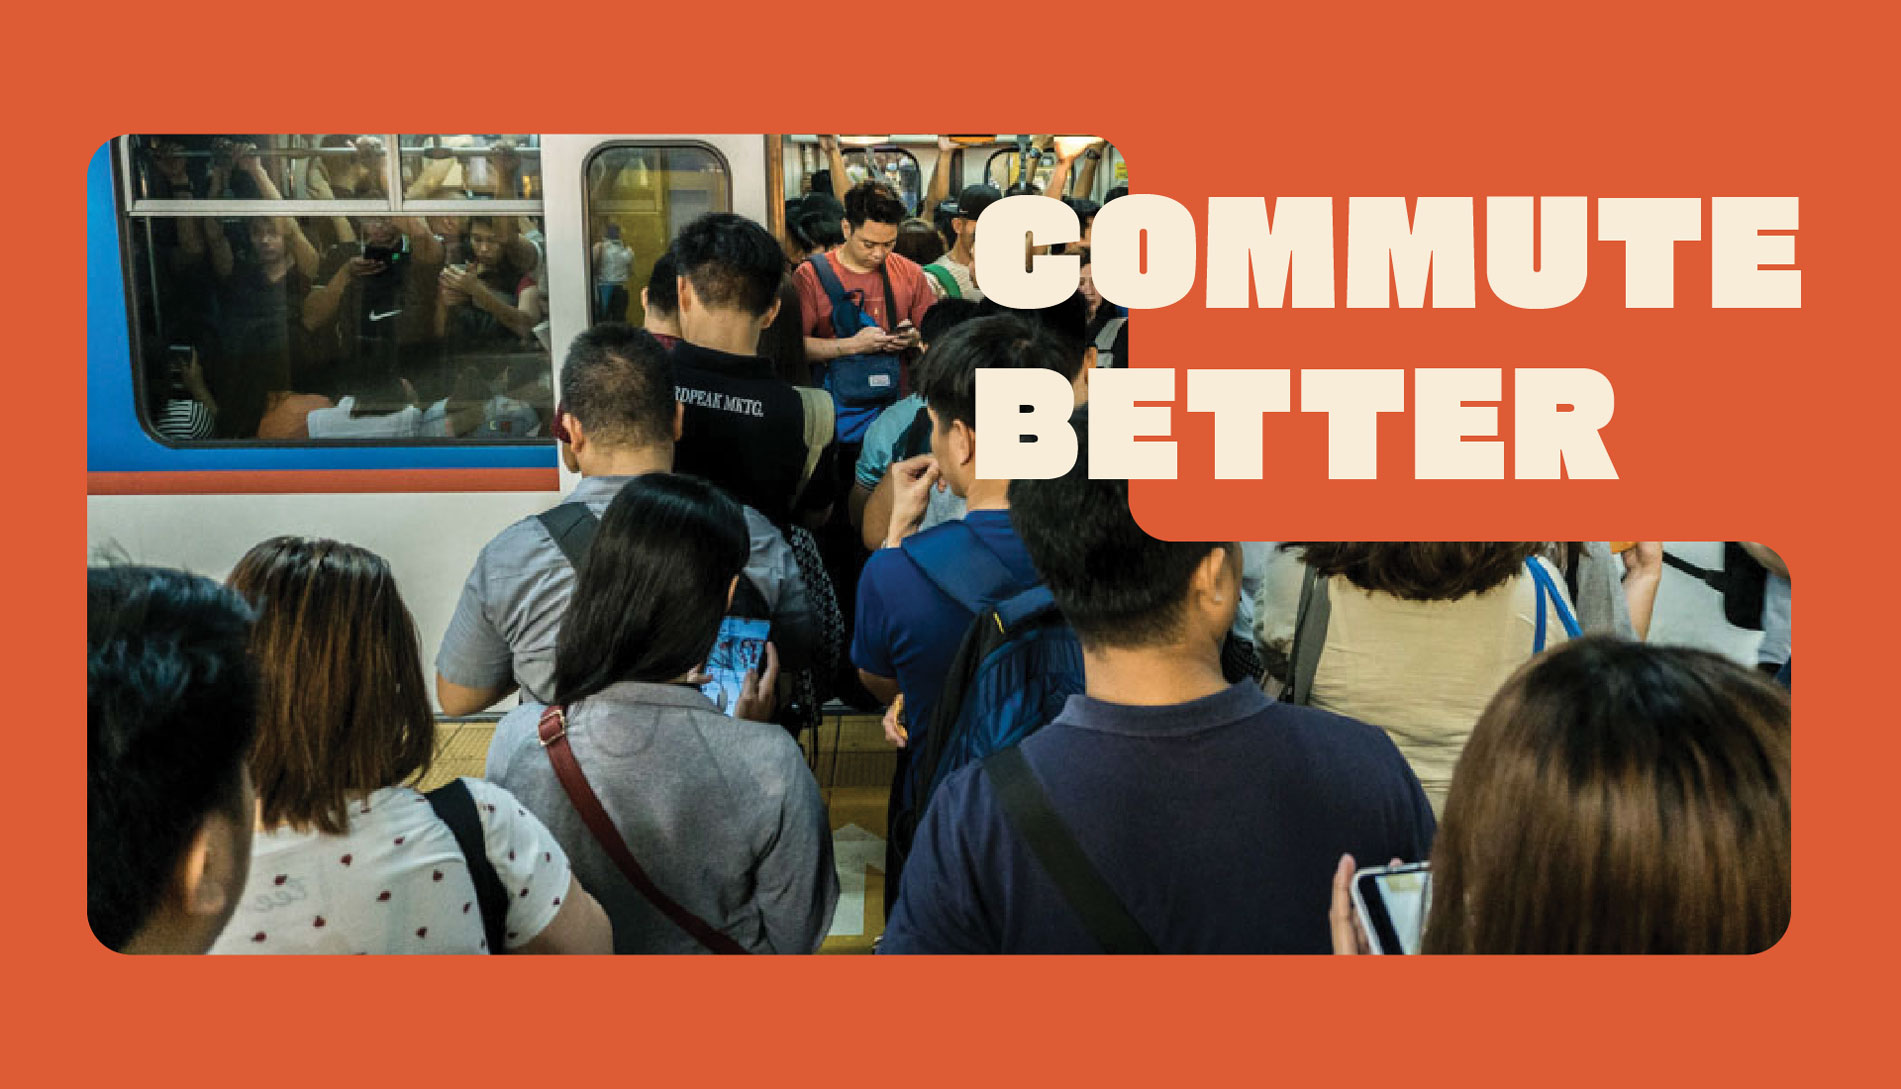
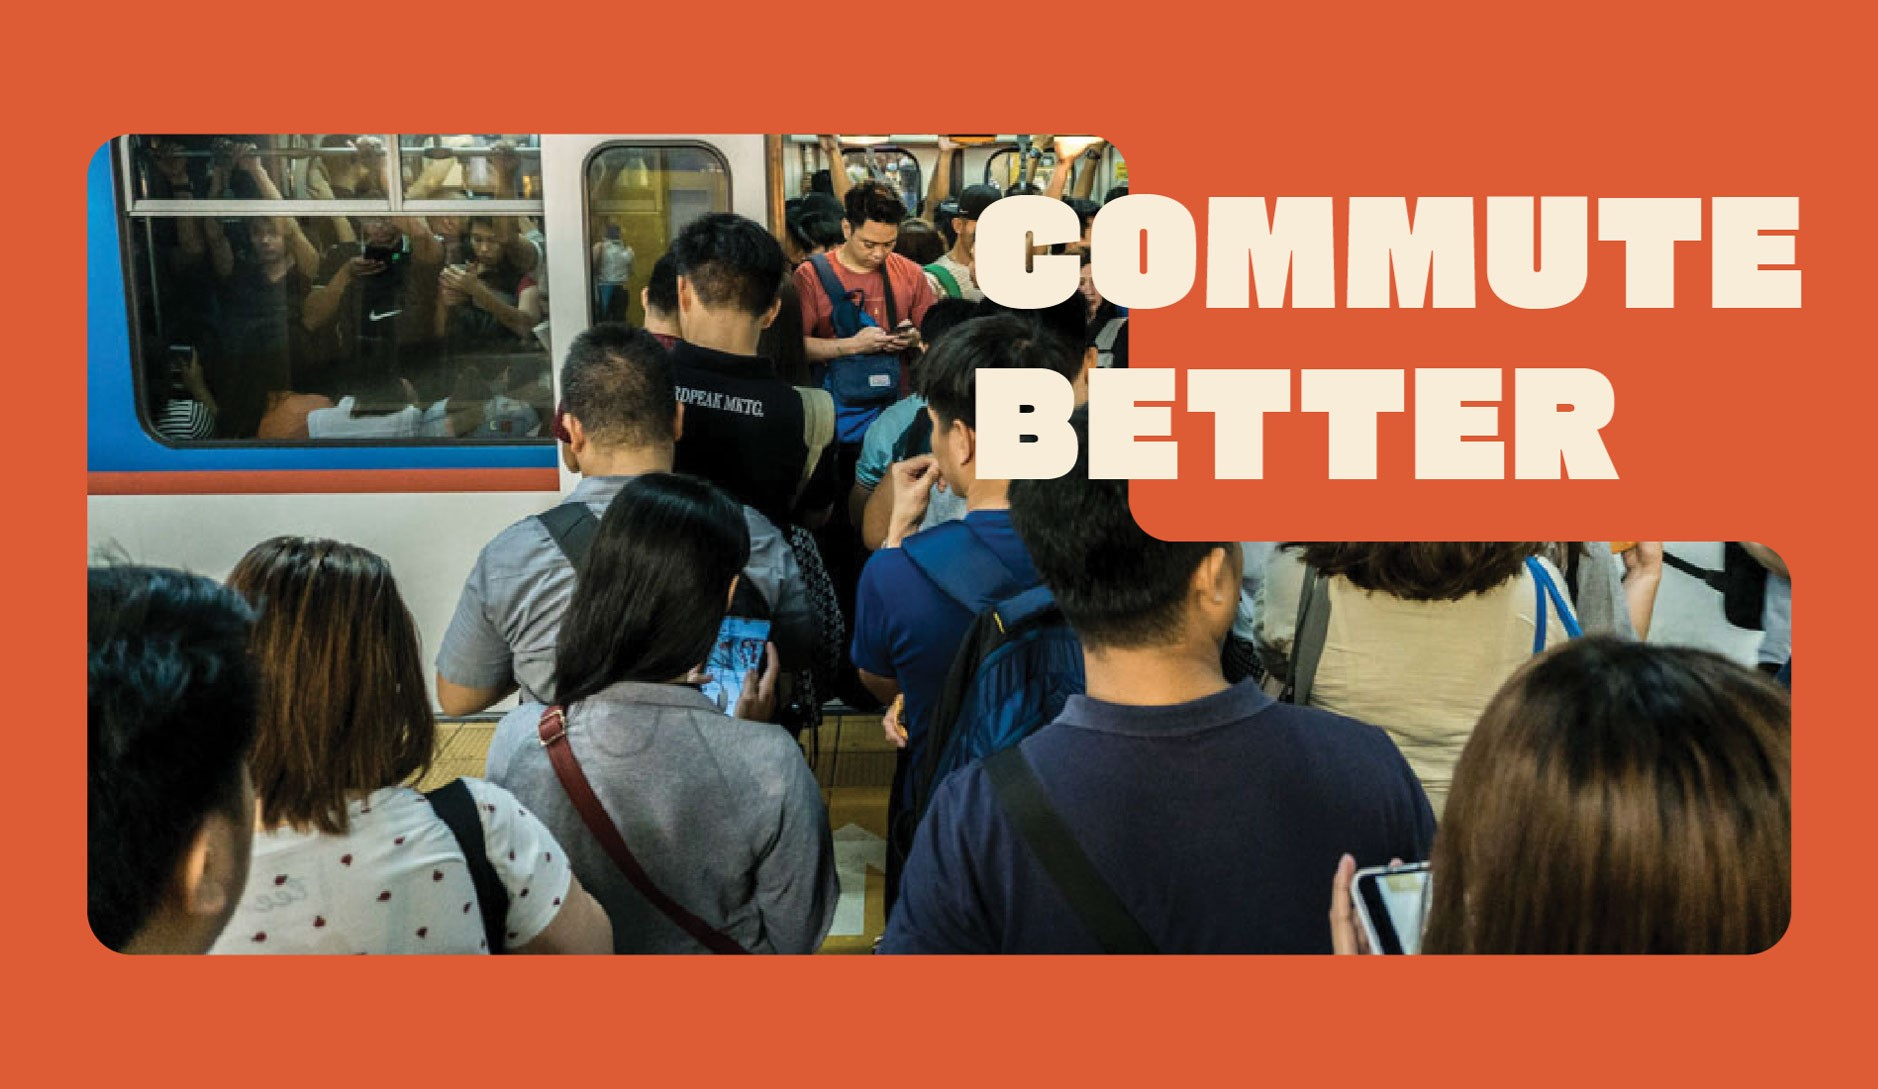
homepage complete

diff --git a/css/index.css b/css/index.css
@@ -1,0 +1,244 @@
+/* Reset and General Styles */
+body {
+  margin: 0;
+  padding: 0;
+  box-sizing: border-box;
+  font-family: Gabarito, Gasoek One, Quicksand;
+  background-color: #f8edd9;
+}
+
+/* Section - Common Styles */
+.section {
+  display: flex;
+  align-items: flex-end;
+  justify-content: space-between;
+  background-color: #d94f30;
+  position: relative;
+  width: 100%;
+}
+
+/* Header Section */
+.content {
+  box-sizing: border-box;
+  padding: 9.5% 7%;
+  position: absolute;
+  display: flex;
+  flex-direction: row;
+  justify-content: space-between;
+  align-items: center;
+  width: 100%;
+  margin: 0 auto;
+  z-index: 1;
+}
+
+.title {
+  font-size: 24px;
+  font-weight: bold;
+}
+
+.description {
+  background-color: #f8edd9;
+  border: 1px solid black;
+  padding: 5px;
+  border-radius: 6px;
+  color: black;
+  width: 70%;
+}
+
+.description p {
+  margin: 0;
+  width: 100%;
+  font-size: 0.5rem;
+}
+
+.button {
+  background-color: #f2c94c;
+  border: 1px solid black;
+  border-radius: 6px;
+  padding: 5px;
+  font-weight: bold;
+  font-size: 8px;
+  color: #de5b35;
+}
+
+.button p {
+  margin: 0;
+  width: 3rem;
+}
+
+.section img {
+  width: 100%;
+  height: 100%;
+  object-fit: cover;
+}
+
+/* Home Section */
+.section-home {
+  padding: 2rem;
+}
+
+/* About Section */
+.about-section {
+  padding-bottom: 3rem;
+}
+
+h2 {
+  color: #d94f30;
+  font-size: 1.5rem;
+  margin-bottom: 1rem;
+  font-weight: bold;
+  font-family: "Gabarito";
+}
+
+.about-section p {
+  color: #de5b35;
+  font-size: 16px;
+  line-height: 1.6;
+  margin-bottom: 0.5rem;
+}
+
+a {
+  color: #d94f30;
+  text-decoration: underline;
+  font-size: 16px;
+  font-weight: 600;
+  font-family: "Quicksand";
+}
+
+.video-section video {
+  width: 100%;
+  border-radius: 30px;
+  margin-bottom: 1rem;
+}
+
+.about-contents-section {
+  text-align: left;
+}
+
+/* News Section */
+.news-section .news-item {
+  margin-bottom: 20px;
+}
+
+.news-section img {
+  width: 100%;
+  border-radius: 20px;
+}
+
+.news-section a {
+  display: block;
+  text-align: center;
+  color: #d94f30;
+  margin-top: 5px;
+  font-family: "Quicksand";
+}
+
+@media (min-width: 768px) {
+  .section-home {
+    margin: 3rem;
+  }
+
+  
+
+  .content {
+    flex-direction: row;
+    align-items: center;
+  }
+
+  .title {
+    font-size: 36px; /* Increased font size for title */
+  }
+
+  .description {
+    padding: 0.5rem 0.5rem; /* Increased padding */
+    border-radius: 10px;
+    font-size: 24px; /* Increased font size */
+    margin-top: auto;
+    width: 60%;
+    height: 100%;
+  }
+
+  .description p {
+    width: 100%;
+    padding: 0.5rem 0.3rem; /* Increased padding */
+    font-size: 1.2rem;
+    height: 100%;
+  }
+
+  .button {
+    padding: 0.5rem 0.5rem; /* Increased padding */
+    border-radius: 10px;
+    font-size: 24px; /* Increased font size */
+    margin-top: auto;
+    height: 100%;
+  }
+
+  .button p {
+    padding: 0.5rem 0rem; /* Increased padding */
+    width: 8rem; /* Adjusted width */
+    font-size: 1.2rem;
+  }
+
+  /* About Section Styling for Desktop */
+  .about-section {
+    display: flex; /* Flexbox for side-by-side layout */
+    align-items: flex-start; /* Align items to the top */
+    padding-bottom: 3rem;
+    justify-content: center;
+  }
+
+  .video-section {
+    flex: 1; /* Take up 1 part of the available space */
+    padding-right: 2rem; /* Add some spacing */
+    display: flex;
+    justify-content: center;
+    align-items: center; 
+  }
+
+  .video-section video {
+    flex: 1; /* Make the video expand to fill available space */
+    width: 100%; /* Ensure it fills the width */
+    height: 100%; /* Ensure it fills the height */
+    object-fit: contain;
+  }
+
+  .about-contents-section {
+    flex: 1; /* Take up 1 part of the available space */
+  }
+
+  h2 {
+    font-size: 3rem; /* Adjusted font size for desktop */
+    margin: 0;
+  }
+
+  
+
+  .about-section p {
+    font-size: 18px; /* Adjusted font size for desktop */
+    text-align: justify;
+  }
+
+  .about-section a {
+    font-size: 18px; /* Adjusted font size for desktop */
+  }
+  .news-section-articles {
+    display: flex; /* Use flexbox for horizontal layout */
+    justify-content: space-between; /* Space items evenly */
+    margin: 1rem 0;
+  }
+
+  .news-section .news-item {
+    width: 48%; /* Adjust width for spacing between items */
+    margin-bottom: 0; /* Remove bottom margin */
+  }
+
+  .news-section img {
+    height: 250px; /* Set a fixed height for images */
+    object-fit: cover; /* Maintain aspect ratio and cover container */
+  }
+
+  .news-section a {
+    font-size: 18px; /* Increase font size */
+    margin-top: 10px; /* Add more space between image and text */
+  }
+}

diff --git a/footer and nav template.html b/footer and nav template.html
@@ -5,16 +5,13 @@
     <meta name="viewport" content="width=device-width, initial-scale=1.0" />
     <title>Document</title>
 
-    <link rel="preconnect" href="https://fonts.googleapis.com" />
-    <link rel="preconnect" href="https://fonts.gstatic.com" crossorigin />
     <link
-      href="https://fonts.googleapis.com/css2?family=Gabarito:wght@400..900&family=Gasoek+One&family=Quicksand:wght@300..700&display=swap"
       rel="stylesheet"
+      href="https://fonts.googleapis.com/css2?family=Poppins:wght@400;600;700&display=swap"
     />
-
     <link rel="stylesheet" href="css/footer.css" />
     <link rel="stylesheet" href="css/navbar.css" />
-    <link rel="stylesheet" href="css/index.css" />
+    <link rel="stylesheet" href="css/about.css" />
   </head>
   <body>
     <header>
@@ -38,56 +35,8 @@
       </nav>
     </header>
 
-    <main>
-      <body>
-        <div class="section">
-          <img src="asset/home/header.jpg" alt="Commuters in a crowded train" />
-          <div class="content">
-            <div class="description">
-              <p>
-                Advocating for safer, more efficient, and accessible public
-                transit in the Philippines.
-              </p>
-            </div>
-            <button class="button">
-              <p>TAKE ACTION</p>
-            </button>
-          </div>
-        </div>
 
-        <div class="section-home">
-          <div class="about-section">
-            <div class="video-section">
-              <video src="asset/home/about-video.mp4" controls></video>
-            </div>
-            <div class="about-contents-section">
-              <h2>About</h2>
-              <p>
-                SakayBayan advocates for better public transit in the
-                Philippines by informing commuters, highlighting solutions, and
-                empowering action to push for a safer, more efficient, and
-                accessible system.
-              </p>
-              <a href="#">More About Us ></a>
-            </div>
-          </div>
-
-          <div class="news-section">
-            <h2>News</h2>
-            <div class="news-section-articles">
-              <div class="news-item">
-                <img src="asset/home/news-1.jpg" alt="Traffic News" />
-                <a href="#">Anti-commuter MMDA plans</a>
-              </div>
-              <div class="news-item">
-                <img src="asset/home/news-2.jpg" alt="Transport Hub News" />
-                <a href="#">Taguig transport hub eyed in 2028</a>
-              </div>
-            </div>
-          </div>
-        </div>
-      </body>
-    </main>
+    
 
     <footer>
       <div class="footer-logo">

diff --git a/css/navbar.css b/css/navbar.css
@@ -15,7 +15,7 @@ nav {
   background-color: #302e2b;
   width: 100%;
   position: absolute;
-  top: 60px;
+  top: 4.5rem;
   left: 0;
   z-index: 10;
   margin: 0;
@@ -32,8 +32,8 @@ nav {
 }
 
 .logo img {
-  width: 120px;
-  height: 80px;
+  width: 90px;
+  height: 60px;
   padding: 0.5rem;
 }
 
@@ -56,13 +56,14 @@ nav {
   font-size: 1.5rem;
 }
 
-@media (min-width: 768px) {
+@media (min-width: 767px) {
   .nav-menu {
     display: flex;
     flex-direction: row;
     position: static;
     width: auto;
     background: none;
+    
   }
 
   .menu-toggle {
@@ -71,6 +72,7 @@ nav {
 
   .nav-menu a {
     padding: 0.5rem 1rem;
+    color: #e85d04;
   }
 }
 
